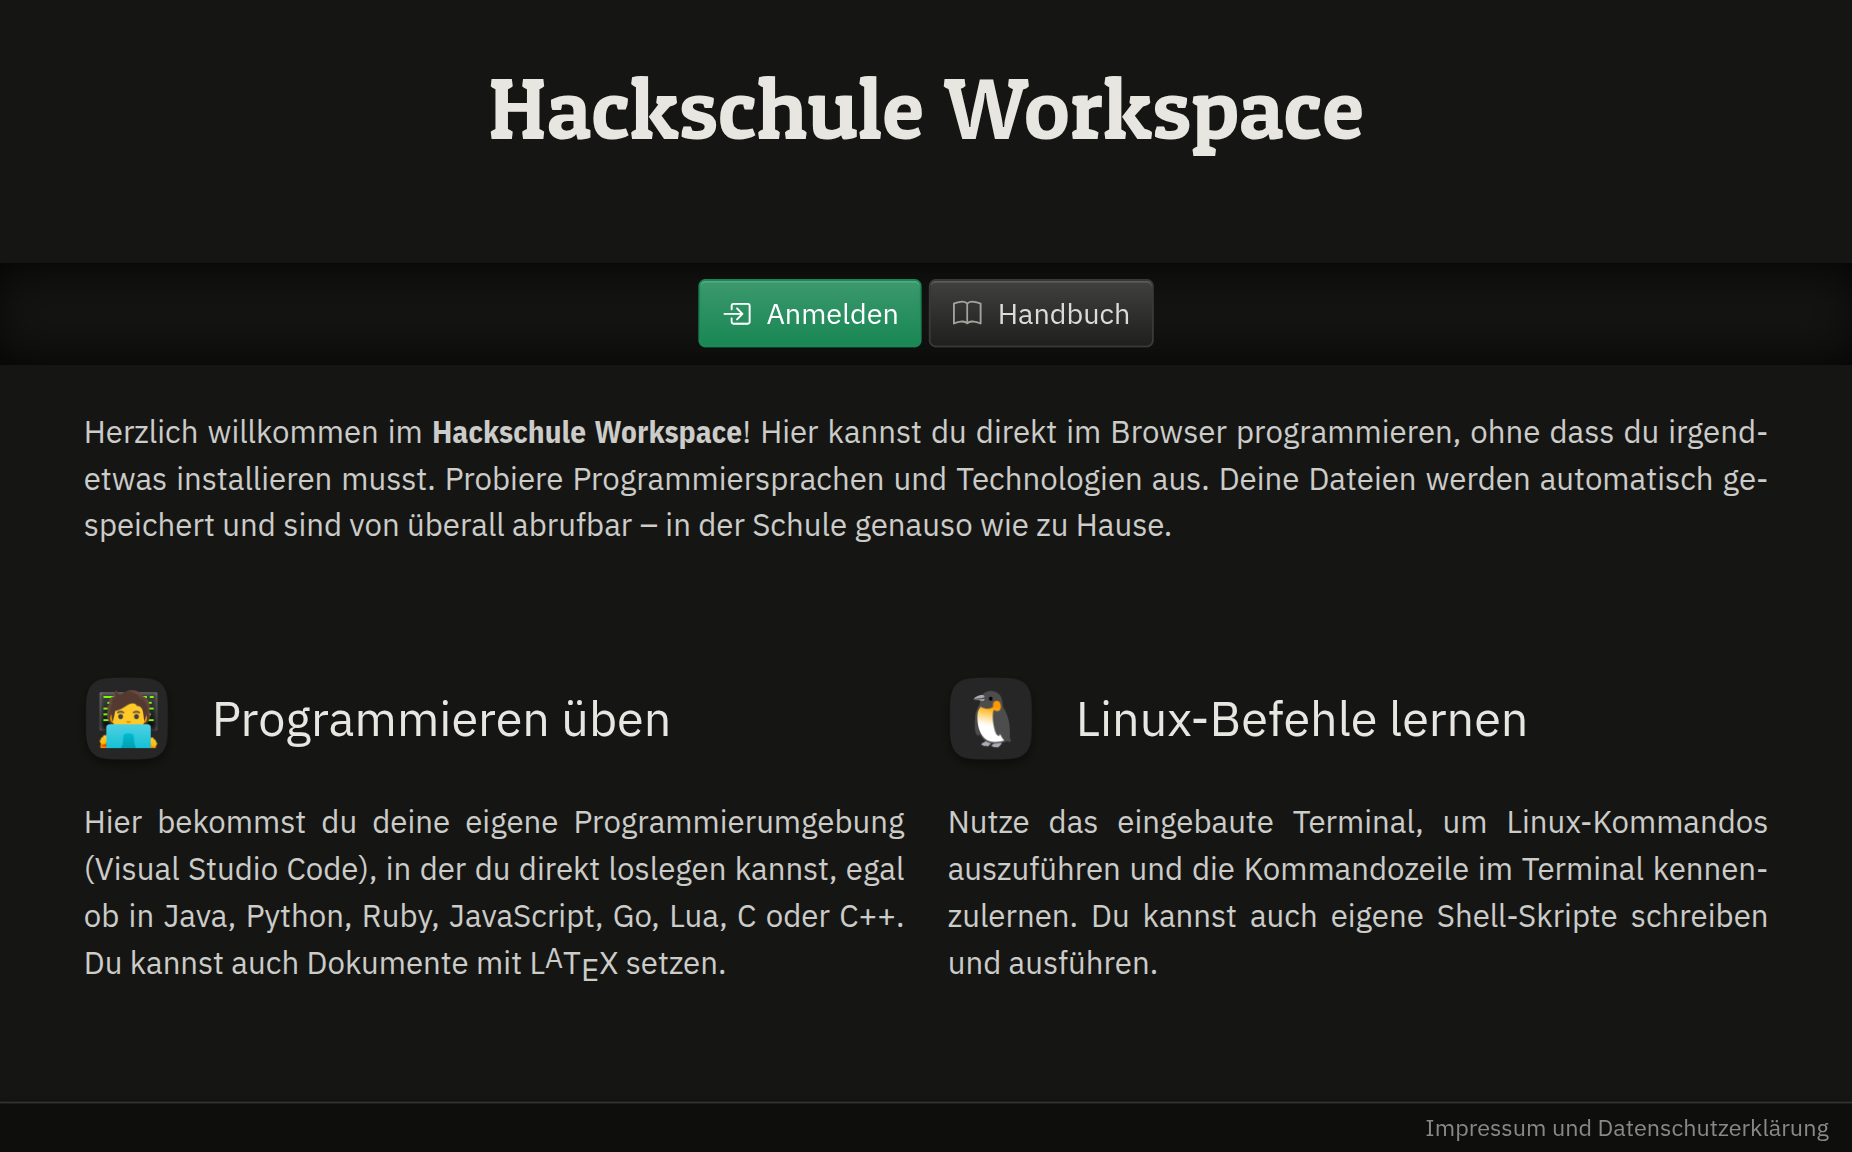
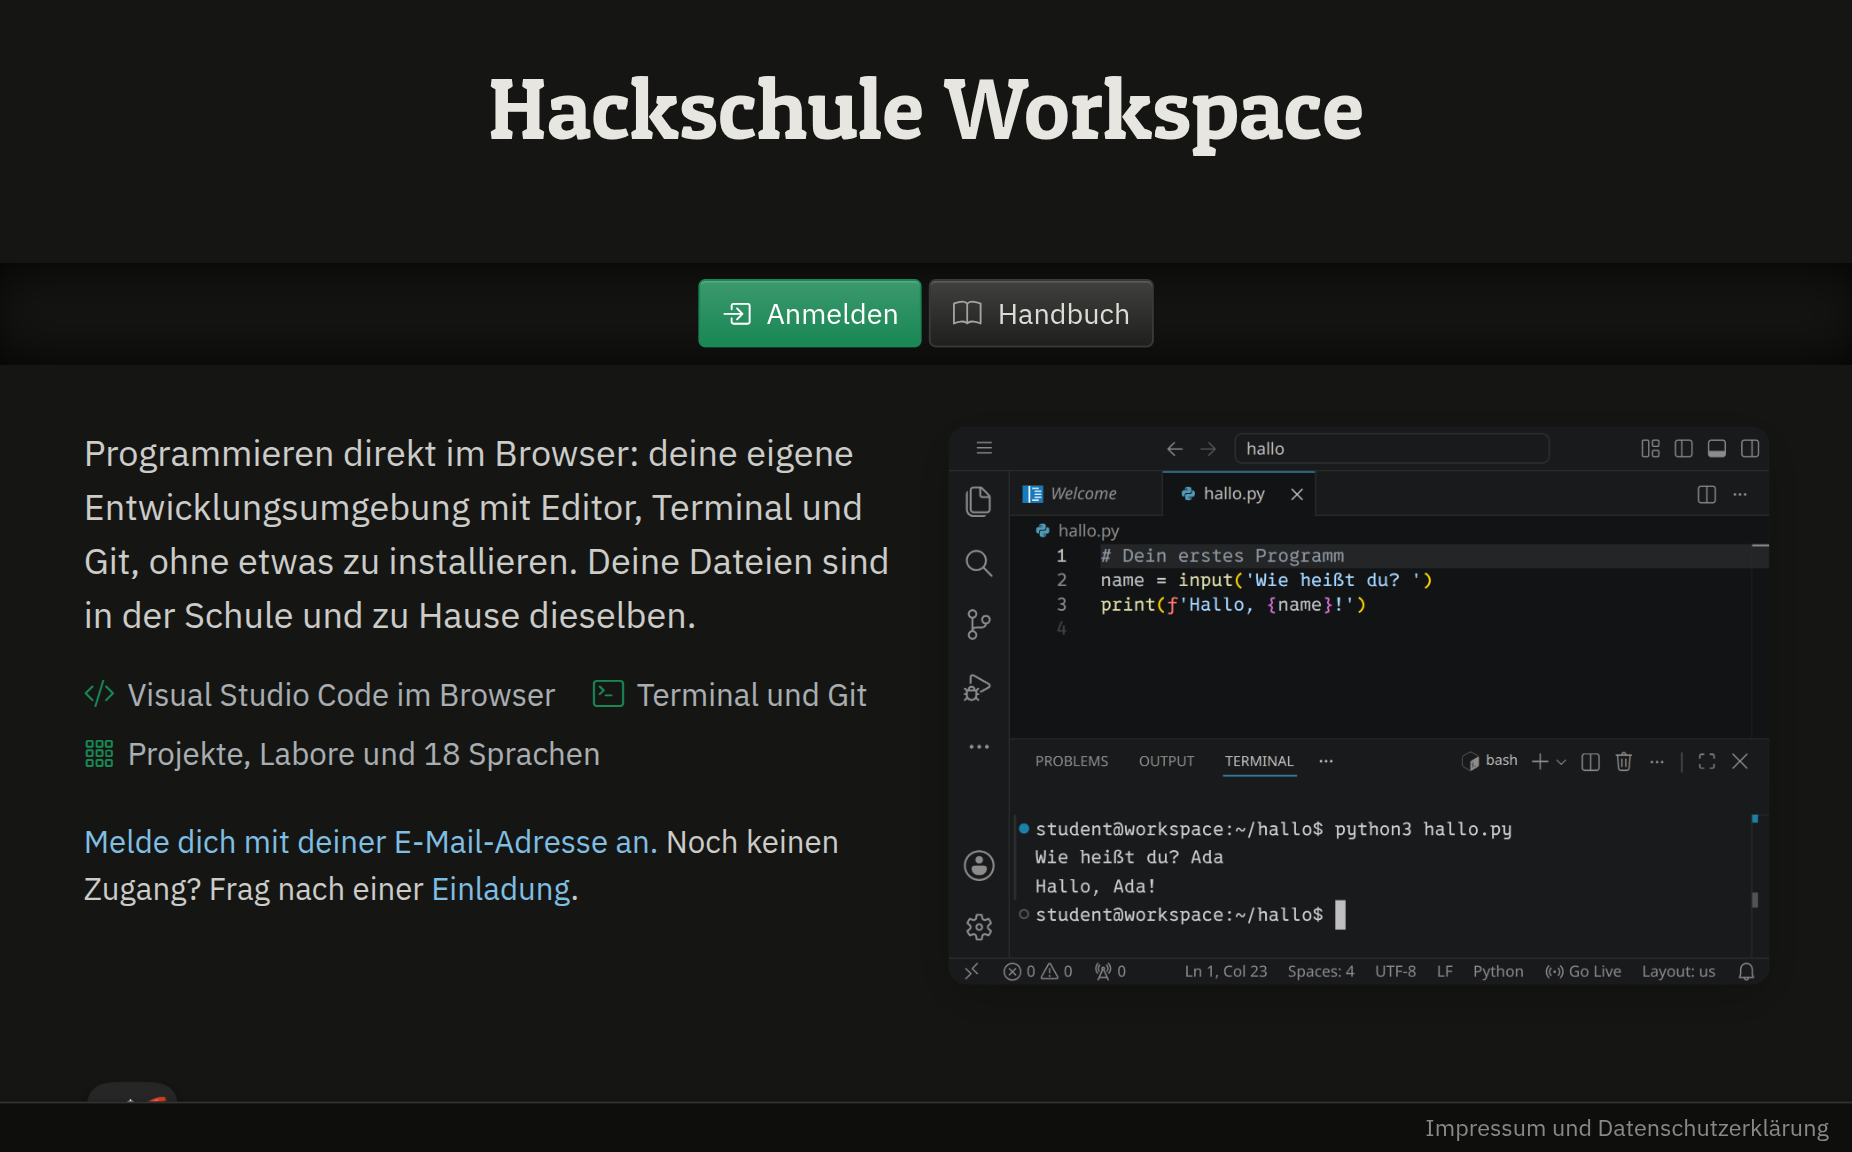
Front page: a compact header for visitors with a picture of the Workspace instead of four text tiles

diff --git a/src/static/index.html b/src/static/index.html
@@ -2,43 +2,48 @@
     h2 {
         margin: 1em 0;
     }
+    /* The same columns as the cards below (.hscol): the text over two, the picture over the third. */
+    .front-hero { margin-top: 2em; margin-bottom: 1em; row-gap: 1.2em; }
+    .front-hero-lead { font-size: 1.25rem; line-height: 1.5; margin: 0 0 0.8em; text-align: left; hyphens: manual; }
+    .front-hero-points { list-style: none; padding: 0; margin: 0 0 1.3em; display: flex; flex-wrap: wrap; gap: 0.4em 1.2em;
+                         color: var(--bs-secondary-color); }
+    .front-hero-points .bi { margin-right: 0.4em; color: var(--bs-success); }
+    .front-hero-login { margin: 0; color: var(--bs-secondary-color); text-align: left; hyphens: manual; }
+    .front-hero-picture { width: 100%; border-radius: 10px; box-shadow: 0 0.4em 1.5em rgba(0, 0, 0, 0.2); }
+    @media (max-width: 767.999999px) {
+        .front-hero { margin-top: 1.2em; }
+        .front-hero-lead { font-size: 1.1rem; }
+    }
 </style>
 <div class='container'>
     <div class='row'>
         <div class='col-md-12'>
-            <p class="mt-4" style="#{running_tests.empty? ? '' : 'display: none;'}">
+            <!-- Not logged in: what the Workspace is and how to get in, in one
+                 compact header; the catalog below shows what it offers. -->
+            <div class='row align-items-start front-hero' style='#{user_logged_in? || !running_tests.empty? ? 'display: none;' : ''}'>
+                <div class='front-hero-text col-12 col-md-6 col-xl-8'>
+                    <p class='front-hero-lead'>
+                        Programmieren direkt im Browser: deine eigene Entwicklungsumgebung mit Editor, Terminal und Git,
+                        ohne etwas zu installieren. Deine Dateien sind in der Schule und zu Hause dieselben.
+                    </p>
+                    <ul class='front-hero-points'>
+                        <li><i class='bi bi-code-slash'></i>Visual Studio Code im Browser</li>
+                        <li><i class='bi bi-terminal'></i>Terminal und Git</li>
+                        <li><i class='bi bi-grid-3x3-gap'></i>Projekte, Labore und 18 Sprachen</li>
+                    </ul>
+                    <p class='front-hero-login'>
+                        <a href='/login'>Melde dich mit deiner E-Mail-Adresse an.</a>
+                        Noch keinen Zugang? Frag nach einer <a href='mailto:specht@hackschule.de'>Einladung</a>.
+                    </p>
+                </div>
+                <div class='col-12 col-md-6 col-xl-4'>#{front_picture_html}</div>
+            </div>
+            <p class="mt-4" style="#{running_tests.empty? && user_logged_in? ? '' : 'display: none;'}">
                 Herzlich willkommen im <strong>Hackschule Workspace</strong>!
                 Hier kannst du direkt im Browser programmieren, ohne dass du irgendetwas installieren musst.
                 Probiere Pro&shy;gram&shy;mier&shy;spra&shy;chen und Technologien aus. Deine Dateien werden automatisch gespeichert
                 und sind von überall abrufbar – in der Schule genauso wie zu Hause.
             </p>
-            <div style='#{user_logged_in? ? 'display: none;' : ''}' class="row">
-                <div class="#{user_logged_in? ? 'col-lg-4 col-md-12 col-sm-12' : 'col-md-6'} mt-4">
-                    <h3><div class='squircle'><img src='/images/hacker.png' alt=''></div> Programmieren üben</h3>
-                    <p>
-                        Hier bekommst du deine eigene Programmier&shy;umgebung (Visual Studio Code), in der du direkt loslegen kannst, egal ob in Java, Python, Ruby, JavaScript, Go, Lua, C oder C++. Du kannst auch Dokumente mit L<span style='position: relative; font-size: 90%; top: -0.2em;'>A</span>T<span style='position: relative; top: 0.2em;'>E</span>X setzen.
-                    </p>
-                </div>
-                <div class="#{user_logged_in? ? 'col-lg-4 col-md-12 col-sm-12' : 'col-md-6'} mt-4">
-                    <h3><div class='squircle'><img src='/images/penguin.png' alt=''></div> Linux-Befehle lernen</h3>
-                    <p>
-                        Nutze das eingebaute Terminal, um Linux-Kommandos auszuführen und die Kommandozeile im Terminal kennen&shy;zu&shy;lernen. Du kannst auch eigene Shell-Skripte schreiben und ausführen.
-                    </p>
-                </div>
-                <div class="#{user_logged_in? ? 'col-lg-4 col-md-12 col-sm-12' : 'col-md-6'} mt-4">
-                    <h3><div class='squircle'><img src='/images/git.png' alt=''></div> Lerne den Umgang mit Git</h3>
-                    <p>
-                        Du kannst Git direkt im Workspace verwenden, um deine Projekte zu verwalten und mit anderen zu teilen. Du kannst auch GitHub-Repositories klonen und bearbeiten.
-                    </p>
-                </div>
-                <div class="col-md-6 mt-4" style="#{user_logged_in? ? 'display: none;' : ''}">
-                    <h3><div class='squircle'><img src='/images/key.png' alt=''></div> Wie komme ich rein?</h3>
-                    <p>
-                        Um den Hackschule Workspace zu nutzen, <a href='/login'>musst du dich anmelden</a>. Du brauchst dafür eine E-Mail-Adresse am Gymnasium Steglitz. Du kannst auch nach einer <a href='mailto:specht@hackschule.de'>Einladung</a> fragen.
-                    </p>
-                </div>
-                <hr class="mt-4">
-            </div>
 
             #{student_home}
             #{print_content_overview()}

diff --git a/src/ruby/main.rb b/src/ruby/main.rb
@@ -4027,6 +4027,18 @@ class Main < Sinatra::Base
             "<script src='/include/include_fold.js?#{CACHE_BUSTER}'></script>"
     end
 
+    # The picture in the front page's header (index.html): a tidy Workspace
+    # from a recipe on the about page, through the image cache.
+    FRONT_PICTURE = '/src/content/about/workspace.webp'
+
+    def front_picture_html
+        return '' unless File.file?(FRONT_PICTURE)
+
+        "<img class='front-hero-picture' src='/cache/#{Main.convert_image(FRONT_PICTURE)}.webp' " \
+            "alt='Der Workspace: oben im Editor ein kurzes Programm, das nach dem Namen fragt, " \
+            "unten im Terminal sein Lauf: Hallo, Ada!'>"
+    end
+
     # Loads media_variants.js on a page with image or video variants.
     def media_variants_setup(slug)
         return '' unless (@@content[slug] || {})[:html].to_s.include?('data-variant-')

diff --git a/src/content/about/hallo.py b/src/content/about/hallo.py
@@ -1,0 +1,3 @@
+# Dein erstes Programm
+name = input('Wie heißt du? ')
+print(f'Hallo, {name}!')

diff --git a/src/content/about/about.md b/src/content/about/about.md
@@ -50,3 +50,30 @@ sleep: 1
 variants: dark
 -->
 <img class='teaser' hidden src='start-page.webp' alt='Die Startseite des Workspaces: oben »Anmelden«, darunter, was man im Workspace machen kann.'>
+
+<!-- tutorial-screenshot
+# Für die Startseite (index.html, front_picture_html): ein aufgeräumter Workspace mit einem kleinen Programm und einem Lauf im Terminal.
+# zoom: Das Bild ist auf der Startseite nur etwa halb so breit wie die anderen Screenshots; etwas größer gezoomt bleibt es lesbar.
+viewport: 1029x700
+zoom: 1.6
+write-file: hallo/hallo.py <- file:hallo.py
+press: Control+K
+press: Control+O
+wait-for-input-value: /workspace/
+type: hallo
+press: Enter
+wait-for-input-value: /workspace/hallo/
+press: Enter
+wait-for-text: hallo.py
+open-file: hallo.py
+hide-left-sidebar
+terminal-open
+terminal-run: clear
+terminal-run: python3 hallo.py
+sleep: 1
+type: Ada
+press: Enter
+terminal-wait-for-prompt
+move-mouse: selector:.terminal
+-->
+<img hidden src='workspace.webp' alt='Der Workspace: oben im Editor hallo.py, ein Programm, das nach dem Namen fragt, unten im Terminal sein Lauf: Wie heißt du? Ada, Hallo, Ada!'>

diff --git a/CHANGELOG.md b/CHANGELOG.md
@@ -396,6 +396,11 @@ Jeder Eintrag sagt, was sich für Lernende, Lehrkräfte und Betreibende ändert.
 
 ### Geändert
 
+- Startseite für alle, die nicht angemeldet sind: Statt Begrüßung und vier
+  Textkacheln ein kompakter Kopf mit einem Satz, was der Workspace ist, drei
+  Stichpunkten, einem Link zur Anmeldung und einem Bild des Workspaces
+  (ein Rezept auf der Seite »Was ist der Hackschule Workspace?«). Der Katalog
+  beginnt gleich darunter. »Anmelden« bleibt oben im Menü.
 - Startseite neu geordnet: erst, was der Workspace bietet, dann das Werkzeug:
   Erste Schritte, Grafik & Spiele, Web, Netze & Sicherheit (TCP/IP vor dem
   Webserver, Pixelwand, Kryptographie, SQL Injection), Datenbanken, Wie
